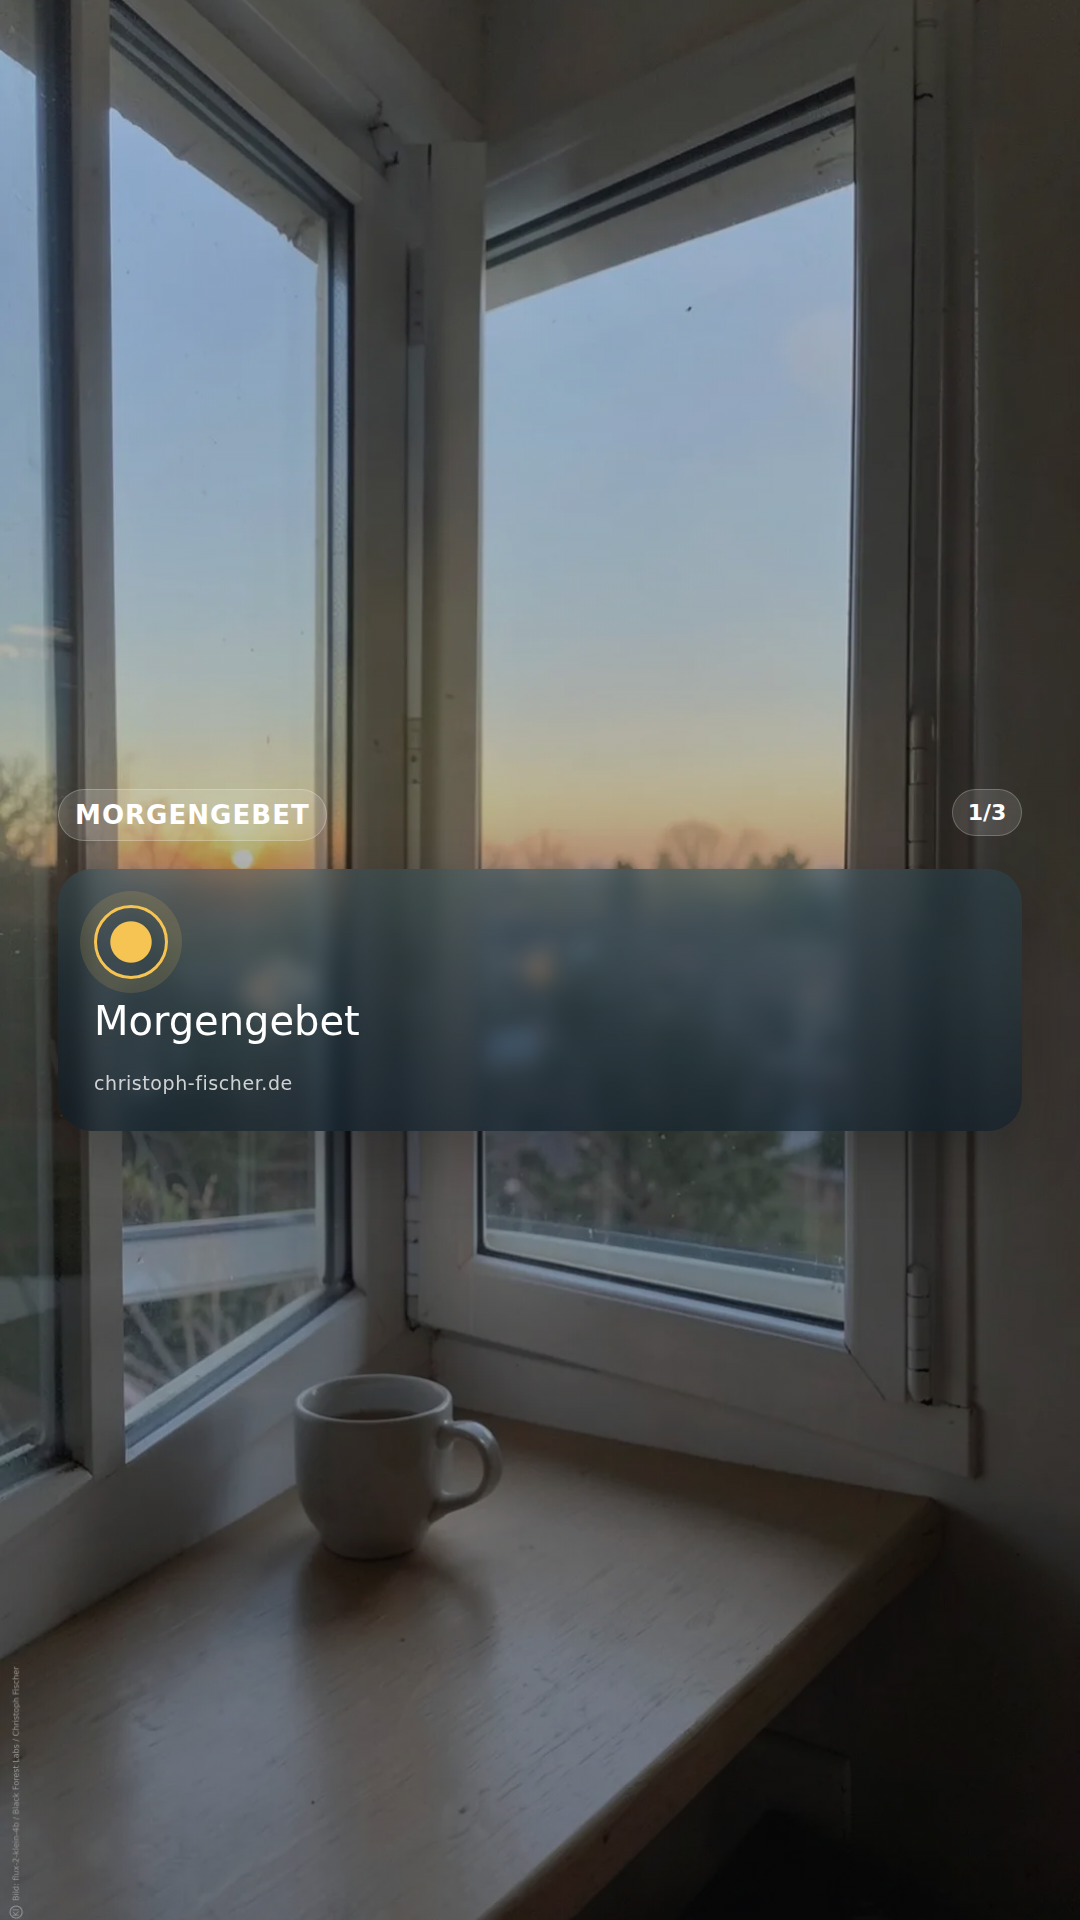
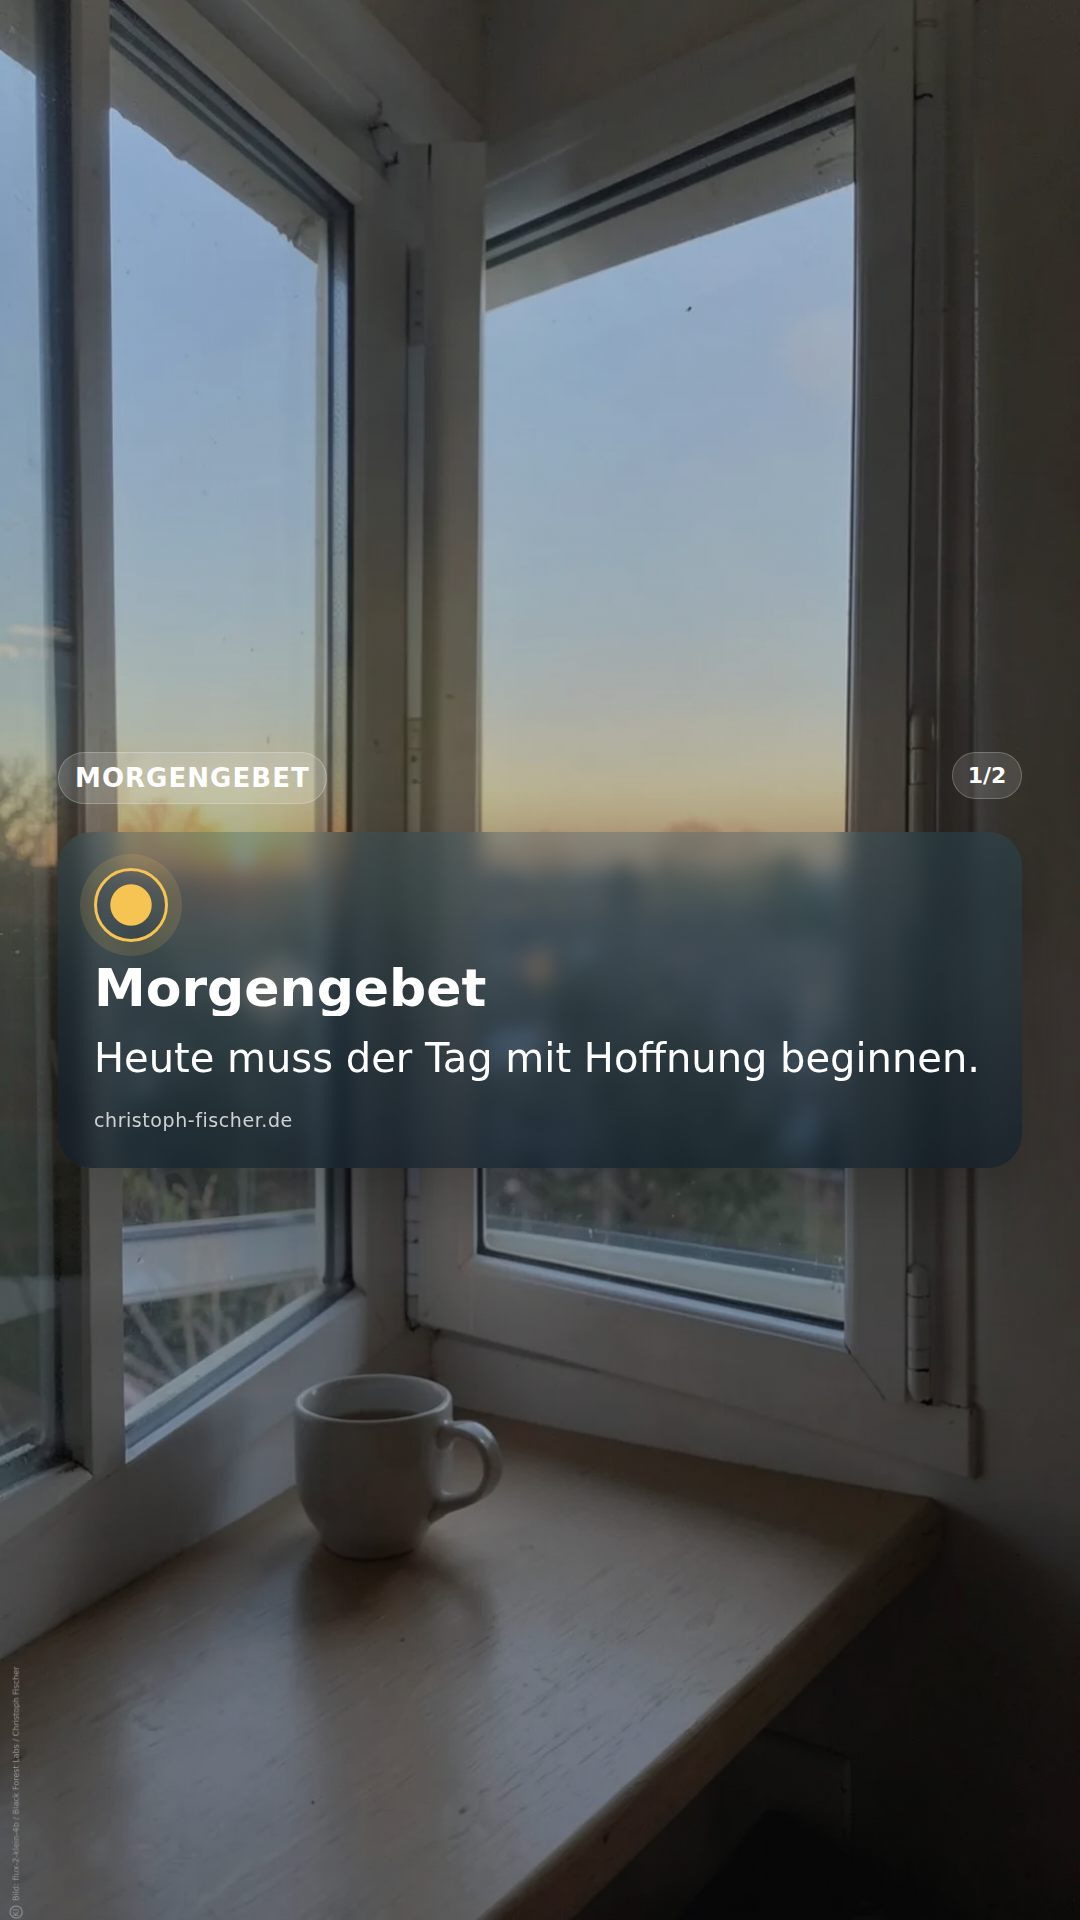
Update content: POST /api/posts/prayer-morning-2026-09-07/actions/render

diff --git a/2026-09-07/prayer-morning-2026-09-07/render-instagram-story-01.html b/2026-09-07/prayer-morning-2026-09-07/render-instagram-story-01.html
@@ -396,11 +396,12 @@
       <section class="layout">
         <div class="panel-meta">
           <div class="eyebrow">Morgengebet</div>
-          <div class="pager">1/3</div>
+          <div class="pager">1/2</div>
         </div>
         <section class="panel prayer-panel">
   <div class="prayer-symbol prayer-symbol-morning" aria-hidden="true"></div>
-  <p class="body-text" data-overflow-id="primary-text">Morgengebet</p>
+  <h1 class="title" data-overflow-id="title">Morgengebet</h1>
+  <p class="body-text" data-overflow-id="primary-text">Heute muss der Tag mit Hoffnung beginnen.</p>
   <p class="sender-mark">christoph-fischer.de</p>
 </section>
 

diff --git a/2026-09-07/prayer-morning-2026-09-07/render-instagram-story-02.html b/2026-09-07/prayer-morning-2026-09-07/render-instagram-story-02.html
@@ -396,11 +396,11 @@
       <section class="layout">
         <div class="panel-meta">
           <div class="eyebrow">Morgengebet</div>
-          <div class="pager">2/3</div>
+          <div class="pager">2/2</div>
         </div>
         <section class="panel prayer-panel">
   <div class="prayer-symbol prayer-symbol-morning" aria-hidden="true"></div>
-  <p class="body-text" data-overflow-id="primary-text">Heute muss der Tag mit Hoffnung beginnen.</p>
+  <p class="body-text" data-overflow-id="primary-text">Die Güte des Herrn hat kein Ende. Mach uns zu Menschen der Hoffnung.</p>
   <p class="sender-mark">christoph-fischer.de</p>
 </section>
 
